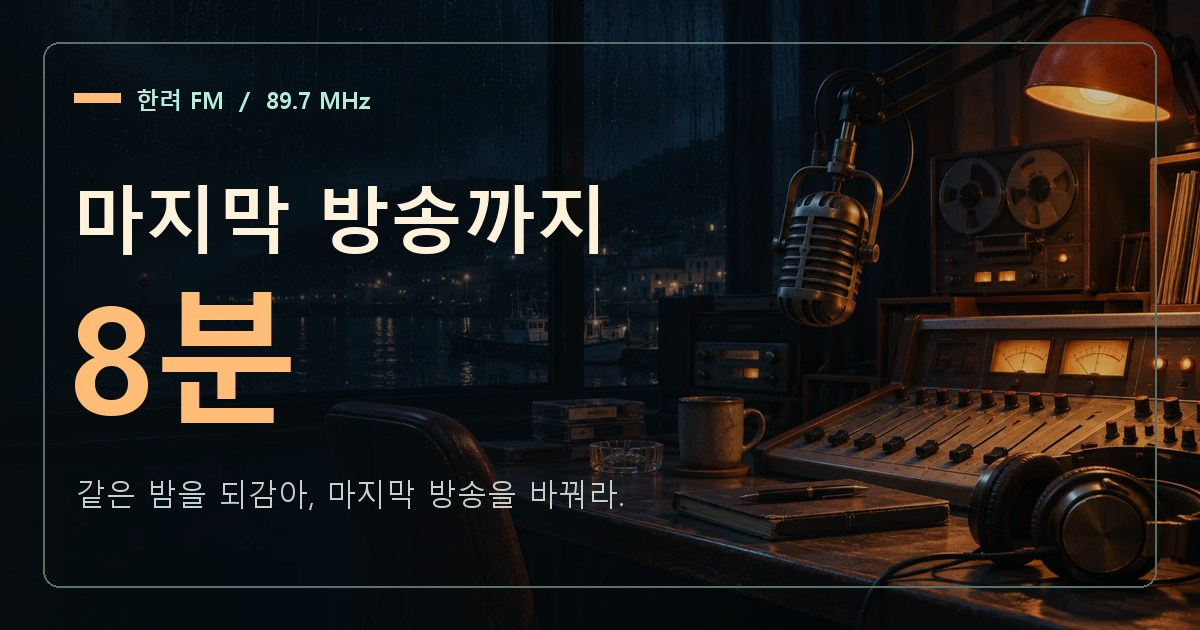
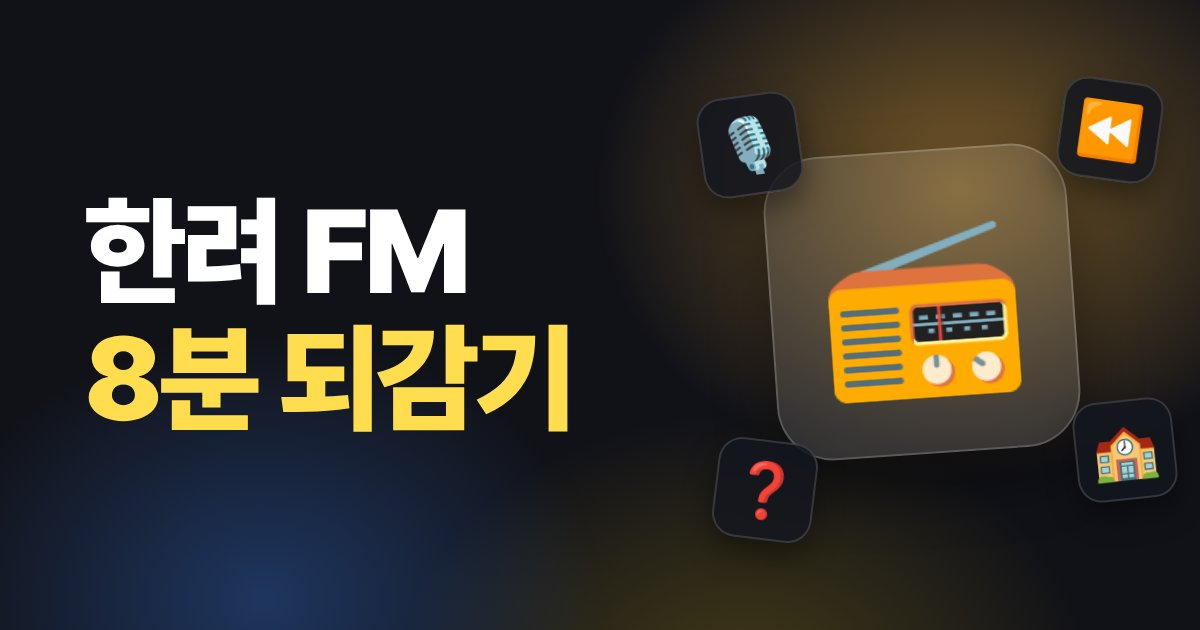
설치·QR 버튼을 다시 맨 윗줄로, 하단 문구 복구, QR·공유 주소를 GitHub Pages로, 공유 그림을 모음집 커버로 (#2)
Claude-Session: https://claude.ai/code/session_01NaW5r8WBzNy5B2e9iMgdZz

diff --git a/index.html b/index.html
@@ -1,5 +1,5 @@
 <!doctype html>
-<html lang="ko" data-qr-name="한려 FM, 정답이 먼저 나갔다" data-qr-url="https://eight-minutes-to-air.asdad123asd.chatgpt.site/">
+<html lang="ko" data-qr-name="한려 FM, 정답이 먼저 나갔다" data-qr-url="https://gmlduqzhd123-lab.github.io/Last-Broad/">
 <head>
   <meta charset="utf-8">
   <meta name="viewport" content="width=device-width, initial-scale=1, viewport-fit=cover">
@@ -8,8 +8,11 @@
   <meta property="og:type" content="website">
   <meta property="og:title" content="한려 FM, 정답이 먼저 나갔다">
   <meta property="og:description" content="마이크를 껐는데 정답이 먼저 나갔다. 여수한려초 방송실에서 8분을 되감아 결승을 바꿔라.">
-  <meta property="og:url" content="https://eight-minutes-to-air.asdad123asd.chatgpt.site/">
-  <meta property="og:image" content="https://eight-minutes-to-air.asdad123asd.chatgpt.site/media/school-studio.webp">
+  <meta property="og:url" content="https://gmlduqzhd123-lab.github.io/Last-Broad/">
+  <meta property="og:image" content="https://gmlduqzhd123-lab.github.io/Last-Broad/og-image.jpg">
+  <meta property="og:image:width" content="1200">
+  <meta property="og:image:height" content="630">
+  <meta name="twitter:image" content="https://gmlduqzhd123-lab.github.io/Last-Broad/og-image.jpg">
   <meta name="twitter:card" content="summary_large_image">
   <link rel="manifest" href="./manifest.webmanifest">
   <link rel="icon" href="./icons/favicon-32.png">
@@ -28,6 +31,8 @@
         <div><strong data-t="brand">한려 FM</strong><span data-t="school">여수한려초등학교</span></div>
       </div>
       <div class="tools">
+        <button class="utility" type="button" data-ys-install>📲 <span class="ys-wide">앱 </span>설치</button>
+        <button class="utility" type="button" data-qr aria-label="QR 코드로 접속">📱 QR</button>
         <button class="utility" id="sound" type="button" aria-pressed="false"></button>
         <button class="utility journal-button" id="journal-open" type="button" aria-haspopup="dialog"><span data-t="journal">수첩</span><span id="journal-count" class="count"></span></button>
         <details class="menu" id="menu">
@@ -36,8 +41,6 @@
             <button class="utility" id="language" type="button"></button>
             <button class="utility" id="replay-intro" type="button" data-t="replayIntro">오프닝 다시 보기</button>
             <button class="utility" id="menu-epilogue" type="button" aria-haspopup="dialog" hidden>12:41 후일담 보기</button>
-            <button class="utility" type="button" data-ys-install data-t="install">앱 설치</button>
-            <button class="utility" type="button" data-qr data-t="share">QR 코드로 공유</button>
           </div>
         </details>
       </div>
@@ -210,6 +213,7 @@
       </details>
     </div>
     <noscript><p>게임을 플레이하려면 브라우저의 JavaScript를 켜 주세요.</p></noscript>
+    <p class="ys-credit">© 2026 엽쌤. All rights reserved. · <a href="https://gmlduqzhd123-lab.github.io/YScode/">엽쌤의 다른 앱 보기 →</a></p>
   </main>
 
   <dialog id="intro" aria-labelledby="intro-title" class="intro">

diff --git a/school.css b/school.css
@@ -303,3 +303,9 @@ dialog::backdrop { background: #080e17bb; }
   .epilogue-view[data-shot="forward"] .intro-copy { animation: reveal .35s ease-out both; }
   @keyframes reveal { from { opacity: .5; transform: translateY(4px); } }
 }
+
+/* 엽쌤 공통: 하단 문구, 휴대폰에서 "앱 " 숨김 */
+.ys-credit { margin: 22px 0 10px; text-align: center; font-size: .78rem; color: #9fb0b2; }
+.ys-credit a { color: inherit; }
+@media (max-width: 700px) { .ys-wide { display: none; } .tools { gap: 5px; } .tools .utility { padding-inline: 7px; } }
+@media (max-width: 400px) { .tools .utility { padding-inline: 5px; font-size: .74rem; } .brand > div > span { display: none; } }
